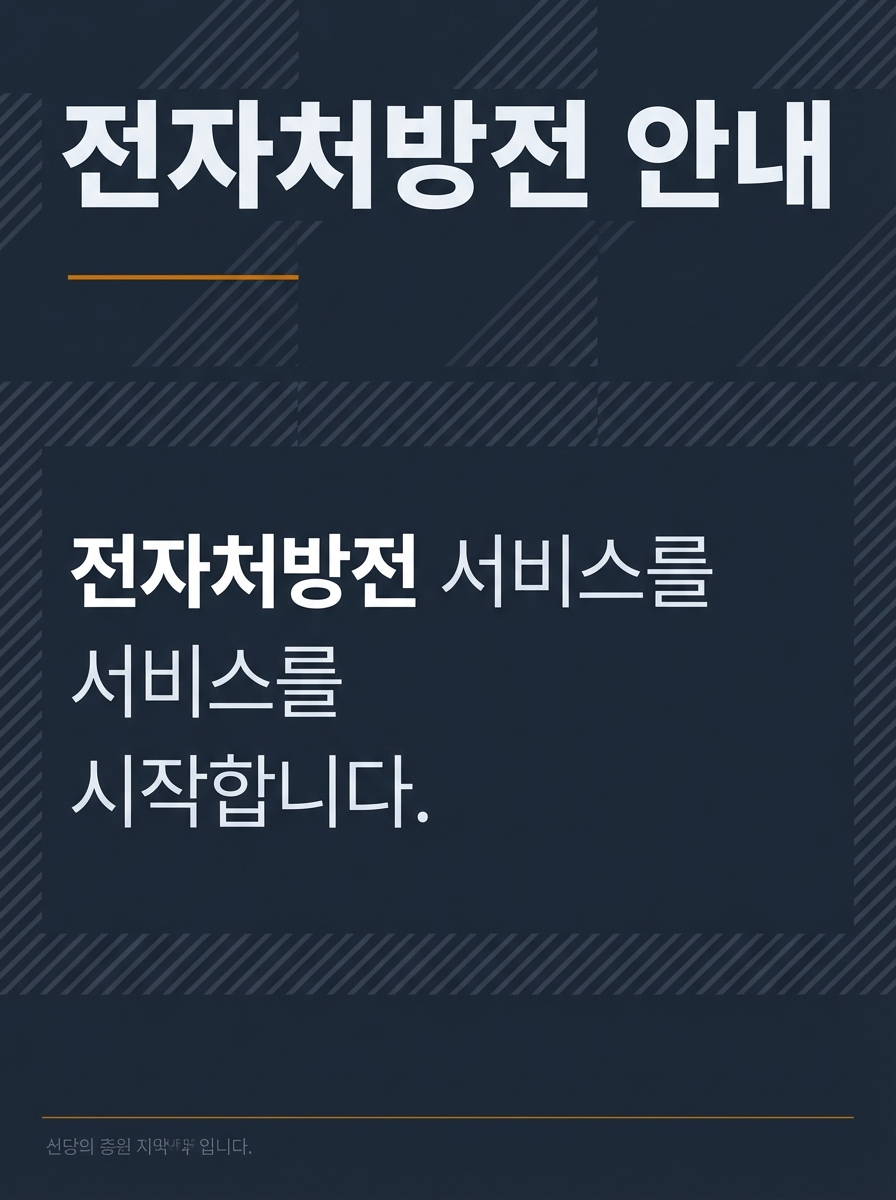
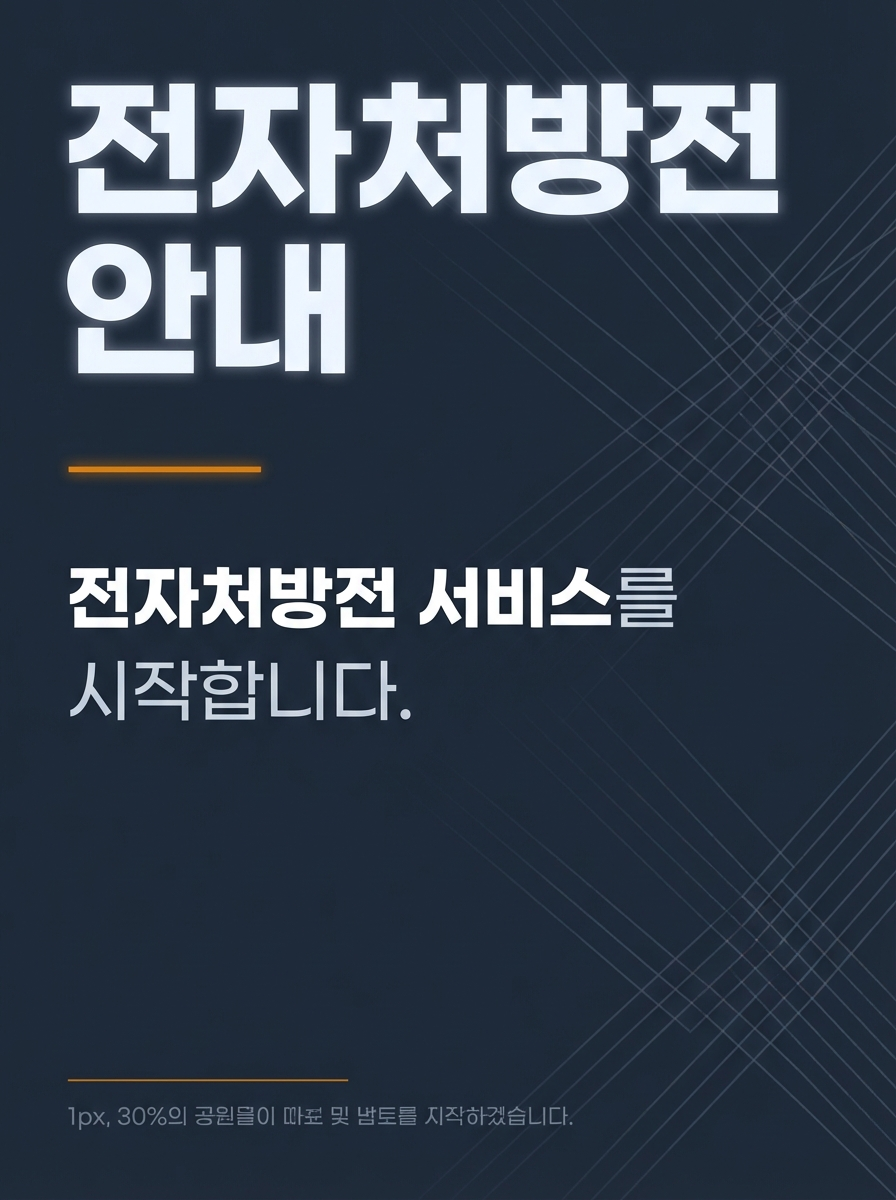
공지 6개 aiPrompt 전면 재작성: 필수 시각 구조물 지정 + 프리뷰 재생성
각 템플릿에 "MANDATORY" 시각 구조물 명시:
- clean_white: 차콜 블록 안에 흰 타이틀 (Kinfolk 에디토리얼)
- soft_blue: 보케 라이트 + frosted 카드 (항공 라운지)
- warm_cream: 골드 더블 프레임 + 코너 브라켓 (Cartier 초대장)
- mint_fresh: 잎 월페이퍼 scatter + 틸 블록 (Aesop 인테리어)
- slate_modern: 다크 기하학 패턴 + 앰버 라인 (Bloomberg/Stripe)
- peach_soft: 보케 글로우 + 라운드28 카드 (성수동 카페)

프리뷰 6장 3:4 재생성

https://claude.ai/code/session_0146MbTZpAY12j7EZ6V4viNe

diff --git a/next-app/lib/categoryTemplates.ts b/next-app/lib/categoryTemplates.ts
@@ -804,163 +804,161 @@ Mobile readability: name 28pt+, credentials 12pt+.`,
     {
       id: "ntc_clean_white", name: "클린 화이트", color: "#374151", accent: "#111827", bg: "#ffffff",
       desc: "순백 배경 + 차콜 타이포 + 얇은 라인 — 가장 깔끔한 공지", layoutHint: "minimal",
-      aiPrompt: `[CRITICAL — THIS IS A PREMIUM DESIGNED POSTER, NOT A TEXT DOCUMENT]
+      aiPrompt: `[CRITICAL — THIS IS A PREMIUM INSTAGRAM-STYLE POSTER]
 ⛔ STRICT CONTENT RULES:
 - DO NOT add any information the user did not provide.
-- DO NOT generate fake Korean text. If you cannot write real Korean, leave that area blank or use only the text the user provided.
+- DO NOT generate fake Korean text. Leave areas blank or use only user-provided text.
 - DO NOT add fake disclaimers, footnotes, or fine print.
-- DO NOT invent hospital names, phone numbers, addresses, or medical information.
-- ONLY use text that the user explicitly provided in their input.
+- DO NOT invent hospital names, phone numbers, or addresses.
+- ONLY use text the user explicitly provided.
 
-Korean hospital notice poster — Clean White Premium Minimal theme.
+Korean hospital notice poster — EDITORIAL WHITE theme. Think Kinfolk magazine layout.
 
-BACKGROUND: Pure white (#ffffff) base. Across ENTIRE background: subtle geometric thin lines forming large-scale grid at 3-4% opacity in light gray (#f3f4f6). Architectural depth like premium embossed stationery.
+VISUAL STRUCTURE — the poster MUST have this specific layout:
+TOP 25%: Pure white space with NOTHING except a tiny gray hospital cross (+) icon at top-center, 8% opacity.
+MIDDLE 50%: A large charcoal (#1e293b) rectangular BLOCK spanning 80% width, centered, with rounded corners (8px). Inside the block: the notice title in MASSIVE bold white text (48pt+). This dark block floating on white is THE signature design element. Below the title inside the block: thin white line (1px) then subtitle in light gray (#94a3b8) if provided.
+BOTTOM 25%: White space. Notice content (if any) in charcoal (#374151) text with generous spacing. Left-aligned with a thin charcoal vertical line (2px) running along the left edge of the text.
 
-HEADER AREA (top 35%): Large solid charcoal (#1e293b) rectangular block spanning full width. Inside: notice title in MASSIVE bold white text (44pt+, weight 900). Dark block creates dramatic contrast — THIS is the design statement.
+THE DARK BLOCK IS MANDATORY. Without it, the design has no identity.
+Background is pure white. Only colors: white + charcoal + light gray.
 
-CONTENT AREA (middle 45%): White area below dark block. Charcoal (#374151) text, 15pt, generous spacing. Thin charcoal left-border accent (3px) alongside text block. Editorial magazine layout feel.
-
-FOOTER (bottom 20%): Thin charcoal line (1.5px, full width). Small gray (#9ca3af) text.
-
-MOOD: Monocle magazine or Kinfolk editorial. Dark header block on white = powerful minimal editorial.
-
-STRICT ANCHORS: Dark charcoal header block, massive white title, architectural grid background, editorial left-border, magazine minimalism.
-Mobile readability: title 40pt+, body 14pt+.`,
+STRICT ANCHORS: Dark charcoal block with white title inside, pure white background, editorial magazine aesthetic.
+INSPIRED FREEDOM: Block proportions, corner radius, icon style.
+Mobile readability: title 44pt+, body 14pt+.`,
     },
+
 
     {
       id: "ntc_soft_blue", name: "소프트 블루", color: "#1e3a8a", accent: "#3b82f6", bg: "#eff6ff",
       desc: "연한 하늘색 배경 + 네이비 타이포 — 신뢰감 있는 공지", layoutHint: "blue",
-      aiPrompt: `[CRITICAL — THIS IS A PREMIUM DESIGNED POSTER, NOT A TEXT DOCUMENT]
+      aiPrompt: `[CRITICAL — THIS IS A PREMIUM INSTAGRAM-STYLE POSTER]
 ⛔ STRICT CONTENT RULES:
 - DO NOT add any information the user did not provide.
-- DO NOT generate fake Korean text. If you cannot write real Korean, leave that area blank or use only the text the user provided.
+- DO NOT generate fake Korean text. Leave areas blank or use only user-provided text.
 - DO NOT add fake disclaimers, footnotes, or fine print.
-- DO NOT invent hospital names, phone numbers, addresses, or medical information.
-- ONLY use text that the user explicitly provided in their input.
+- DO NOT invent hospital names, phone numbers, or addresses.
+- ONLY use text the user explicitly provided.
 
-Korean hospital notice poster — Soft Blue Immersive theme.
+Korean hospital notice poster — IMMERSIVE BLUE SKY theme. Think airline premium lounge signage.
 
-BACKGROUND: Smooth blue gradient filling ENTIRE image — deep blue (#1e40af) at top through sky blue (#60a5fa) to very light blue (#eff6ff) at bottom. Across ENTIRE background: subtle soft circular bokeh in lighter blue (#93c5fd) at 8-12% opacity. Dreamy professional medical atmosphere.
+VISUAL STRUCTURE — the poster MUST have this specific layout:
+ENTIRE BACKGROUND: Deep blue (#1e40af) at top-left corner, radiating outward to sky blue (#60a5fa) at center, fading to very light blue (#eff6ff) at bottom-right. Across the ENTIRE surface: soft glowing circular bokeh lights (6-8 circles, various sizes from tiny to large) in white/light blue at 10-20% opacity. The bokeh creates a dreamy, premium atmosphere EVERYWHERE.
+FLOATING CARD: A frosted white card (rounded 24px, backdrop-blur effect, 88% opacity, border: 0.5px white at 30% opacity) positioned at center, spanning 75% width and 55% height. Inside the card: notice title in deep navy (#0f172a) bold text (36pt+). Below title: thin blue (#60a5fa) line. Content text in navy (#1e3a8a), generous spacing.
+NO TEXT OUTSIDE THE CARD except hospital name in small white at very top on the blue gradient.
 
-HEADER AREA (top 35%): On deep blue. MASSIVE bold white title (42pt+, weight 900). Thin white line (1px, width 25%, 60% opacity) below. Hospital name in light blue (#bfdbfe) small above.
+THE BOKEH LIGHTS AND FROSTED CARD ARE MANDATORY. Without them, it is just blue text on blue.
 
-CONTENT CARD (middle 45%): White frosted card (rounded 20px, backdrop-blur, 90% opacity, blue-tinted shadow). Inside: deep navy (#1e3a8a) text, 14pt. Blue (#93c5fd) left-border accent (2px). Blue gradient visible AROUND and THROUGH card.
-
-FOOTER (bottom 20%): Gradient continues. Small white/light blue text.
-
-MOOD: Samsung Medical Center digital signage. Full-bleed IMMERSIVE blue atmosphere, not a strip of blue at top.
-
-STRICT ANCHORS: Full-bleed blue gradient, bokeh lights, frosted card on blue, massive white title, immersive medical atmosphere.
-Mobile readability: title 38pt+, body 13pt+.`,
+STRICT ANCHORS: Full-bleed blue gradient, bokeh light circles, frosted glass card, deep navy text inside card.
+INSPIRED FREEDOM: Bokeh density/sizes, blue shade range, card opacity, gradient direction.
+Mobile readability: title 32pt+, body 13pt+.`,
     },
+
 
     {
       id: "ntc_warm_cream", name: "웜 크림", color: "#78583d", accent: "#c9a96e", bg: "#faf7f2",
       desc: "따뜻한 크림 배경 + 갈색 타이포 + 골드 악센트 — 고급 공지", layoutHint: "cream",
-      aiPrompt: `[CRITICAL — THIS IS A PREMIUM DESIGNED POSTER, NOT A TEXT DOCUMENT]
+      aiPrompt: `[CRITICAL — THIS IS A PREMIUM INSTAGRAM-STYLE POSTER]
 ⛔ STRICT CONTENT RULES:
 - DO NOT add any information the user did not provide.
-- DO NOT generate fake Korean text. If you cannot write real Korean, leave that area blank or use only the text the user provided.
+- DO NOT generate fake Korean text. Leave areas blank or use only user-provided text.
 - DO NOT add fake disclaimers, footnotes, or fine print.
-- DO NOT invent hospital names, phone numbers, addresses, or medical information.
-- ONLY use text that the user explicitly provided in their input.
+- DO NOT invent hospital names, phone numbers, or addresses.
+- ONLY use text the user explicitly provided.
 
-Korean hospital notice poster — Warm Cream Luxury theme.
+Korean hospital notice poster — LUXURY GOLD STATIONERY theme. Think Cartier invitation card.
 
-BACKGROUND: Rich warm ivory (#faf5ef) filling ENTIRE image. Subtle METALLIC GOLD SHIMMER texture across whole surface at 4-6% opacity — brushed gold leaf paper. Top and bottom: soft gold (#d4a853) gradient glow at edges (10% opacity). Entire poster feels like luxury invitation on gold-flecked paper.
+VISUAL STRUCTURE — the poster MUST have this specific layout:
+ENTIRE BACKGROUND: Warm ivory (#faf5ef) with visible LINEN PAPER TEXTURE at 6-8% opacity — the texture must be noticeable, like real luxury stationery paper. The entire surface has a subtle metallic gold shimmer at 3-4% opacity.
+GOLD FRAME: A thin DOUBLE-LINE gold (#c9a96e) rectangular frame (outer line 1px, inner line 0.5px, 4px gap) inset 5% from all edges. Four small gold corner bracket ornaments at frame corners. This frame is THE signature element.
+INSIDE FRAME — TOP: Notice title in warm brown (#5c3d1e) serif-leaning text (36pt+, weight 700). Below title: thin gold line with small diamond centered.
+INSIDE FRAME — MIDDLE: Content text in warm brown (#5c4a32), generous spacing, serif-leaning.
+INSIDE FRAME — BOTTOM: Small gold text for date/hospital name.
 
-HEADER AREA (top 35%): Deep warm brown (#5c3d1e) title, 40pt+, serif feel. Below: two thin parallel gold (#c9a96e) lines (0.5px each, 3px gap, width 30%, centered) with small gold diamond centered between.
+THE GOLD DOUBLE FRAME WITH CORNER BRACKETS IS MANDATORY.
 
-CONTENT AREA (middle 45%): Warm brown (#5c4a32) text, 14pt. Floats on gold-shimmer ivory — NO card. Items separated by thin gold dotted lines. Important words in darker brown.
-
-FOOTER (bottom 20%): Gold lines framing top/bottom edges (0.5px, full width). Small warm brown text.
-
-MOOD: Luxury hotel concierge notice on custom stationery. Gold shimmer IS the design.
-
-STRICT ANCHORS: Gold shimmer across entire surface, warm brown serif title, parallel gold lines with diamond, gilded borders, luxury stationery.
-Mobile readability: title 36pt+, body 13pt+.`,
+STRICT ANCHORS: Linen texture, gold double-line frame, corner brackets, warm brown serif text, diamond ornament, luxury stationery mood.
+INSPIRED FREEDOM: Frame thickness, bracket ornament style, serif amount, gold shade.
+Mobile readability: title 32pt+, body 13pt+.`,
     },
+
 
     {
       id: "ntc_mint_fresh", name: "민트 프레시", color: "#0f766e", accent: "#10b981", bg: "#f0fdfa",
       desc: "민트 그라데이션 + 다크그린 타이포 — 상쾌한 공지", layoutHint: "mint",
-      aiPrompt: `[CRITICAL — THIS IS A PREMIUM DESIGNED POSTER, NOT A TEXT DOCUMENT]
+      aiPrompt: `[CRITICAL — THIS IS A PREMIUM INSTAGRAM-STYLE POSTER]
 ⛔ STRICT CONTENT RULES:
 - DO NOT add any information the user did not provide.
-- DO NOT generate fake Korean text. If you cannot write real Korean, leave that area blank or use only the text the user provided.
+- DO NOT generate fake Korean text. Leave areas blank or use only user-provided text.
 - DO NOT add fake disclaimers, footnotes, or fine print.
-- DO NOT invent hospital names, phone numbers, addresses, or medical information.
-- ONLY use text that the user explicitly provided in their input.
+- DO NOT invent hospital names, phone numbers, or addresses.
+- ONLY use text the user explicitly provided.
 
-Korean hospital notice poster — Mint Fresh Botanical theme.
+Korean hospital notice poster — BOTANICAL MINT GARDEN theme. Think Aesop store interior poster.
 
-BACKGROUND: Soft mint gradient filling ENTIRE image — light sage (#ecfdf5) through mint (#f0fdfa). Across ENTIRE background: scattered watercolor eucalyptus leaf shapes at 8-12% opacity in sage green (#a7f3d0). Various sizes and rotations. Immersive botanical wallpaper — NOT one leaf in corner, but gentle scatter across WHOLE surface.
+VISUAL STRUCTURE — the poster MUST have this specific layout:
+ENTIRE BACKGROUND: Soft mint (#f0fdfa) with watercolor eucalyptus leaves scattered across the ENTIRE surface at 12-18% opacity — at least 8-10 leaf shapes of various sizes and rotations in sage green (#a7f3d0). Creates lush botanical wallpaper effect, NOT just one leaf in a corner.
+HEADER BLOCK: Dark teal (#0f766e) solid rounded rectangle (rounded 14px) at top, spanning 80% width, centered. Inside: notice title in bold white text (36pt+). This teal block on mint+leaves background is THE design signature.
+CONTENT AREA: Below the block. White rounded card (rounded 16px, border: 1px solid #d1fae5) containing content text in dark teal (#134e4a). Emerald (#10b981) left-border accent (3px) beside text.
+BOTTOM: Mint background with leaf scatter continues. Small teal text.
 
-HEADER AREA (top 35%): Dark teal (#0f766e) solid rounded rectangle (rounded 16px, 85% width, centered). Inside: bold white title (38pt+). Dark teal block on mint = fresh contrast.
+THE SCATTERED LEAVES AND TEAL HEADER BLOCK ARE MANDATORY.
 
-CONTENT CARD (middle 45%): White card (rounded 16px, natural shadow, border: 1px solid #d1fae5). Dark teal (#134e4a) text, 14pt. Emerald (#10b981) left-border accent (2px).
-
-FOOTER (bottom 20%): Mint continues with leaf scatter. Small dark teal text.
-
-MOOD: Premium wellness clinic lobby. Scattered leaf wallpaper = lush and natural, not sterile.
-
-STRICT ANCHORS: Immersive leaf scatter, dark teal header block, white card, emerald accents, botanical wellness.
-Mobile readability: title 34pt+, body 13pt+.`,
+STRICT ANCHORS: Immersive leaf scatter wallpaper, dark teal header block, white content card, emerald accents, botanical wellness mood.
+INSPIRED FREEDOM: Leaf density/type, teal block shape, card style.
+Mobile readability: title 32pt+, body 13pt+.`,
     },
+
 
     {
       id: "ntc_slate_modern", name: "슬레이트 모던", color: "#334155", accent: "#64748b", bg: "#f8fafc",
       desc: "연한 슬레이트 배경 + 기하학 라인 — 모던한 공지", layoutHint: "slate",
-      aiPrompt: `[CRITICAL — THIS IS A PREMIUM DESIGNED POSTER, NOT A TEXT DOCUMENT]
+      aiPrompt: `[CRITICAL — THIS IS A PREMIUM INSTAGRAM-STYLE POSTER]
 ⛔ STRICT CONTENT RULES:
 - DO NOT add any information the user did not provide.
-- DO NOT generate fake Korean text. If you cannot write real Korean, leave that area blank or use only the text the user provided.
+- DO NOT generate fake Korean text. Leave areas blank or use only user-provided text.
 - DO NOT add fake disclaimers, footnotes, or fine print.
-- DO NOT invent hospital names, phone numbers, addresses, or medical information.
-- ONLY use text that the user explicitly provided in their input.
+- DO NOT invent hospital names, phone numbers, or addresses.
+- ONLY use text the user explicitly provided.
 
-Korean hospital notice poster — Slate Modern Geometric theme.
+Korean hospital notice poster — DARK SLATE TECH theme. Think Bloomberg terminal or Stripe website.
 
-BACKGROUND: Dark slate (#1e293b) filling ENTIRE image — rich deep warm dark gray-blue. Across ENTIRE background: subtle geometric diagonal lines at 4-6% opacity in lighter slate (#334155). Sophisticated dark geometric atmosphere like premium tech product page.
+VISUAL STRUCTURE — the poster MUST have this specific layout:
+ENTIRE BACKGROUND: Dark warm slate (#1e293b) full bleed — rich, deep, NOT pure black. Across the ENTIRE surface: thin diagonal geometric lines (intersecting at 30 and 150 degree angles) in lighter slate (#334155) at 5-7% opacity. Creates sophisticated dark tech pattern.
+TOP 45%: MASSIVE white (#f1f5f9) title text — 52pt+, weight 900, tight tracking. The white text GLOWS against dark slate. Below title: single SHORT amber (#d97706) horizontal line (3px height, 40px width only). This tiny amber line is the ONLY color in the entire poster — it makes the monochrome design pop.
+MIDDLE 35%: Content text in light gray (#e2e8f0), 14pt, directly on dark slate. NO card. Each item with generous 20px spacing. Important words in pure white, bold. Left-aligned editorial layout.
+BOTTOM 20%: Thin amber line (1px, 30% width). Small stone (#94a3b8) text.
 
-HEADER AREA (top 40%): MASSIVE bold white (#f1f5f9) title, 44pt+, weight 900, tight tracking. White POPS against dark slate — dramatic contrast is the design. Below: single thin amber (#d97706) line (2px, width 20%). Amber is ONLY color accent.
+THE DARK BACKGROUND WITH GEOMETRIC PATTERN AND AMBER ACCENT ARE MANDATORY.
 
-CONTENT AREA (middle 40%): White (#e2e8f0) text, 14pt, on dark slate — NO card. Items with generous spacing (20px+). Important words pure white bold. Numbers in amber (#d97706).
-
-FOOTER (bottom 20%): Thin amber line (1px). Small stone (#94a3b8) text.
-
-MOOD: Bloomberg terminal or Stripe website. Dark, technical, premium. Geometric pattern + amber = sophisticated modern.
-
-STRICT ANCHORS: Dark slate, geometric diagonal pattern, massive white title, amber accent line, monochrome + amber, tech-premium.
-Mobile readability: title 40pt+, body 13pt+ (contrast 12:1+).`,
+STRICT ANCHORS: Dark slate background, geometric diagonal pattern, massive white title, amber accent lines (only color), editorial left-aligned layout, tech-premium mood.
+INSPIRED FREEDOM: Slate shade, pattern angle, amber line placement.
+Mobile readability: title 48pt+, body 13pt+ (white on slate contrast 12:1+).`,
     },
+
 
     {
       id: "ntc_peach_soft", name: "피치 소프트", color: "#9a3412", accent: "#f97316", bg: "#fff7ed",
       desc: "연한 피치/살몬 배경 + 따뜻한 브라운 — 부드러운 공지", layoutHint: "peach",
-      aiPrompt: `[CRITICAL — THIS IS A PREMIUM DESIGNED POSTER, NOT A TEXT DOCUMENT]
+      aiPrompt: `[CRITICAL — THIS IS A PREMIUM INSTAGRAM-STYLE POSTER]
 ⛔ STRICT CONTENT RULES:
 - DO NOT add any information the user did not provide.
-- DO NOT generate fake Korean text. If you cannot write real Korean, leave that area blank or use only the text the user provided.
+- DO NOT generate fake Korean text. Leave areas blank or use only user-provided text.
 - DO NOT add fake disclaimers, footnotes, or fine print.
-- DO NOT invent hospital names, phone numbers, addresses, or medical information.
-- ONLY use text that the user explicitly provided in their input.
+- DO NOT invent hospital names, phone numbers, or addresses.
+- ONLY use text the user explicitly provided.
 
-Korean hospital notice poster — Peach Soft Warm theme.
+Korean hospital notice poster — WARM PEACH GLOW theme. Think trendy cafe announcement.
 
-BACKGROUND: Warm gradient filling ENTIRE image — soft peach (#fdba74) at top through warm cream (#fff7ed) to near-white (#fffbf5) at bottom. Across ENTIRE background: subtle soft circular bokeh (large blurred circles) in lighter peach (#fed7aa) at 10-15% opacity. Multiple sizes. Dreamy warm sunset glow across whole surface.
+VISUAL STRUCTURE — the poster MUST have this specific layout:
+ENTIRE BACKGROUND: Warm peach gradient — vivid peach (#fdba74) at top fading through soft peach (#fed7aa) at middle to warm cream (#fff7ed) at bottom. Across the ENTIRE surface: soft glowing circular BOKEH shapes (8-10 circles, various sizes from tiny to very large) in lighter peach (#ffedd5) and white at 12-18% opacity. Creates dreamy warm sunset glow EVERYWHERE — this is NOT a plain gradient, it is ALIVE with light.
+FLOATING CARD: White card with VERY rounded corners (border-radius 28px), soft warm shadow (rgba(249,115,22,0.15)), positioned at center, spanning 80% width, 50% height. Inside: notice title in deep brown (#78350f) bold text (38pt+, rounded sans-serif). Below: thin coral (#fb923c) line. Content in warm brown (#78350f).
+TOP: On peach gradient above card — hospital name in warm brown, small.
 
-HEADER AREA (top 35%): Deep brown (#78350f) title, 40pt+, rounded sans-serif. Friendly inviting. Below: thin coral (#fb923c) line (2px, width 20%). Hospital name in warm brown small above.
+THE BOKEH GLOW AND VERY ROUNDED CARD ARE MANDATORY. Everything must feel WARM, ROUND, SOFT.
 
-CONTENT CARD (middle 45%): White card VERY rounded corners (24px), warm shadow (rgba(249,115,22,0.12)). Warm brown (#78350f) text, 14pt. Coral (#fdba74) left-border (3px). Everything rounded, warm, approachable.
-
-FOOTER (bottom 20%): Gradient to cream. Small warm brown text.
-
-MOOD: Premium cafe menu or boutique clinic notice. Immersive peach glow with bokeh = warm and special, not clinical.
-
-STRICT ANCHORS: Immersive peach gradient, bokeh across surface, deep brown title, very rounded card, coral accents, warm friendly.
-Mobile readability: title 36pt+, body 13pt+.`,
+STRICT ANCHORS: Immersive peach gradient, bokeh glow circles everywhere, very rounded white card (28px), deep brown title, warm friendly mood.
+INSPIRED FREEDOM: Peach shade, bokeh density/sizes, card radius, gradient warmth.
+Mobile readability: title 34pt+, body 13pt+.`,
     },
   ],
 
